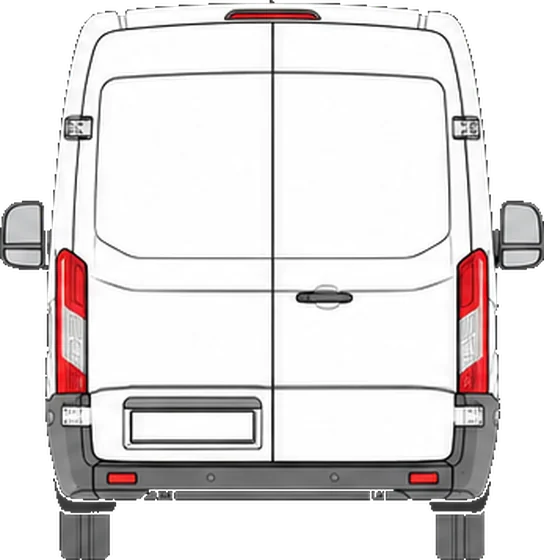
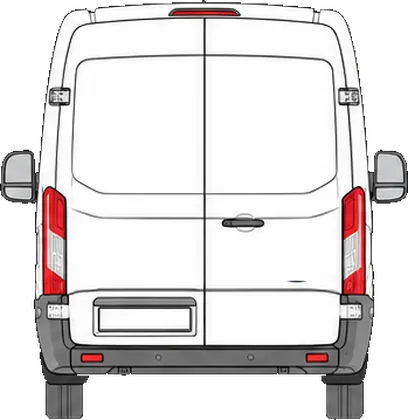
Add drawings for 52 vans and motorhomes, grouped by size (2.2.0)
Each van and generation is its own choice in Setup, with its own side,
rear and top drawing for the home screen, Setup sample and Level page.

Claude-Session: https://claude.ai/code/session_017KBRngzsM8Rvp8wbAvxhhM

diff --git a/custom_components/nomados/frontend/nomados.js b/custom_components/nomados/frontend/nomados.js
@@ -5,7 +5,7 @@
  * `mode: demo` shows example values (for showing off, or before the kit is fitted).
  * Entity ids can be overridden in configuration.yaml under panel_custom > config > entities.
  */
-const VCC_VERSION = "2.1.0";
+const VCC_VERSION = "2.2.0";
 
 // No built-in entity names: the setup wizard picks them for each van
 const VCC_DEFAULT_ENTITIES = {};
@@ -1456,23 +1456,64 @@ const SW_ICON_NAMES = { lights: "Light", awning: "Outside light", pump: "Pump", 
 const NOS_MAX_BUTTONS = 7;
 
 // Common vans: wheelbase and track (width between the wheels) in mm. Close enough for ramp heights.
-// Drawings for each van in the list (side, rear and top), served by the integration
-const NOS_VAN_ART = ["crafter_lwb", "crafter_mwb", "master_mwb", "sprinter_lwb", "sprinter_mwb", "transit_lwb", "transit_mwb", "transporter_swb"];
-function vanArt(model) { return NOS_VAN_ART.includes(model) ? `/nomados_static/vans/${model}` : null; }
+// Vans in the Setup list: id, name, short name, wheelbase mm, width between wheels mm, group.
+// Each one except "other" has side, rear and top drawings in frontend/vans. Sizes are typical figures; owners can change them.
 const NOS_VANS = [
-  ["ducato_l23", "Fiat Ducato / Peugeot Boxer / Citroën Relay · L2 or L3", "Ducato L3", 3450, 1810],
-  ["ducato_l4", "Fiat Ducato / Peugeot Boxer / Citroën Relay · L4", "Ducato L4", 4035, 1810],
-  ["transit_lwb", "Ford Transit · long wheelbase", "Transit LWB", 3750, 1740],
-  ["transit_mwb", "Ford Transit · medium wheelbase", "Transit MWB", 3300, 1740],
-  ["sprinter_lwb", "Mercedes Sprinter · long wheelbase", "Sprinter LWB", 4325, 1710],
-  ["sprinter_mwb", "Mercedes Sprinter · medium wheelbase", "Sprinter MWB", 3665, 1710],
-  ["master_mwb", "Renault Master / Vauxhall Movano · medium wheelbase", "Master MWB", 3682, 1750],
-  ["crafter_lwb", "VW Crafter / MAN TGE · long wheelbase", "Crafter LWB", 4490, 1720],
-  ["crafter_mwb", "VW Crafter / MAN TGE · medium wheelbase", "Crafter MWB", 3640, 1720],
-  ["transporter_lwb", "VW Transporter · long wheelbase", "Transporter LWB", 3400, 1630],
-  ["transporter_swb", "VW Transporter · short wheelbase", "Transporter SWB", 3000, 1630],
-  ["other", "Something else (type the sizes below)", "Campervan", 3500, 1700],
+  ["crafter_mwb", "VW Crafter / MAN TGE (2017 on) · medium wheelbase", "Crafter MWB", 3640, 1720, "Large vans"],
+  ["crafter_lwb", "VW Crafter / MAN TGE (2017 on) · long wheelbase", "Crafter LWB", 4490, 1720, "Large vans"],
+  ["crafter_mk1f", "VW Crafter (2011–2016)", "Crafter", 3665, 1710, "Large vans"],
+  ["crafter_mk1", "VW Crafter (2006–2011)", "Crafter", 3665, 1710, "Large vans"],
+  ["ducato_2024", "Fiat Ducato / Peugeot Boxer / Citroën Relay / Vauxhall Movano (2024 on)", "Ducato", 3450, 1810, "Large vans"],
+  ["ducato_2021", "Fiat Ducato / Peugeot Boxer / Citroën Relay / Vauxhall Movano (2021–2024)", "Ducato", 3450, 1810, "Large vans"],
+  ["ducato_l23", "Fiat Ducato / Peugeot Boxer / Citroën Relay (2014–2021) · L2 or L3", "Ducato L3", 3450, 1810, "Large vans"],
+  ["ducato_l4", "Fiat Ducato / Peugeot Boxer / Citroën Relay (2014–2021) · L4", "Ducato L4", 4035, 1810, "Large vans"],
+  ["ducato_x250", "Fiat Ducato / Peugeot Boxer / Citroën Relay (2006–2014)", "Ducato", 3450, 1810, "Large vans"],
+  ["transit_mwb", "Ford Transit (2019 on) · medium wheelbase", "Transit MWB", 3300, 1740, "Large vans"],
+  ["transit_lwb", "Ford Transit (2019 on) · long wheelbase", "Transit LWB", 3750, 1740, "Large vans"],
+  ["transit_mk8", "Ford Transit (2014–2019)", "Transit", 3300, 1740, "Large vans"],
+  ["transit_mk7", "Ford Transit (2006–2013)", "Transit", 3300, 1740, "Large vans"],
+  ["iveco_daily", "Iveco Daily (2014 on)", "Daily", 3520, 1730, "Large vans"],
+  ["sprinter_mwb", "Mercedes Sprinter (2018 on) · medium wheelbase", "Sprinter MWB", 3665, 1710, "Large vans"],
+  ["sprinter_lwb", "Mercedes Sprinter (2018 on) · long wheelbase", "Sprinter LWB", 4325, 1710, "Large vans"],
+  ["sprinter_w906", "Mercedes Sprinter (2006–2018)", "Sprinter", 3665, 1710, "Large vans"],
+  ["master_2024", "Renault Master (2024 on)", "Master", 3700, 1760, "Large vans"],
+  ["master_mwb", "Renault Master / Vauxhall Movano / Nissan NV400 (2010–2024)", "Master MWB", 3682, 1750, "Large vans"],
+  ["transporter_t7", "VW Transporter T7 (2025 on)", "Transporter T7", 3100, 1690, "Mid-size vans"],
+  ["transporter_swb", "VW Transporter T6.1 (2019–2024) · short wheelbase", "T6.1 SWB", 3000, 1630, "Mid-size vans"],
+  ["transporter_lwb", "VW Transporter T6.1 (2019–2024) · long wheelbase", "T6.1 LWB", 3400, 1630, "Mid-size vans"],
+  ["transporter_t6", "VW Transporter T6 (2015–2019)", "Transporter T6", 3000, 1630, "Mid-size vans"],
+  ["transporter_t51", "VW Transporter T5.1 (2009–2015)", "Transporter T5", 3000, 1630, "Mid-size vans"],
+  ["transporter_t5", "VW Transporter T5 (2003–2009)", "Transporter T5", 3000, 1630, "Mid-size vans"],
+  ["transporter_t4", "VW Transporter T4 (1990–2003)", "Transporter T4", 2920, 1580, "Mid-size vans"],
+  ["transporter_t3", "VW Transporter T3 (1979–1992)", "Transporter T3", 2460, 1570, "Mid-size vans"],
+  ["transporter_t2", "VW Transporter T2 (1967–1979)", "Transporter T2", 2400, 1390, "Mid-size vans"],
+  ["transporter_t1", "VW Transporter T1 (1950–1967)", "Transporter T1", 2400, 1375, "Mid-size vans"],
+  ["custom_mk2", "Ford Transit Custom (2023 on)", "Transit Custom", 3100, 1690, "Mid-size vans"],
+  ["tourneo_custom_mk2", "Ford Tourneo Custom (2023 on)", "Tourneo Custom", 3100, 1690, "Mid-size vans"],
+  ["custom_mk1f", "Ford Transit Custom (2018–2023)", "Transit Custom", 2933, 1700, "Mid-size vans"],
+  ["custom_mk1", "Ford Transit Custom (2012–2018)", "Transit Custom", 2933, 1700, "Mid-size vans"],
+  ["vito_w447", "Mercedes Vito (2014 on)", "Vito", 3200, 1660, "Mid-size vans"],
+  ["vclass_w447", "Mercedes V-Class (2014 on)", "V-Class", 3200, 1660, "Mid-size vans"],
+  ["vito_w639", "Mercedes Vito / Viano (2003–2014)", "Vito", 3200, 1630, "Mid-size vans"],
+  ["trafic_x82", "Renault Trafic / Vauxhall Vivaro / Nissan Primastar / Fiat Talento (2014 on)", "Trafic", 3098, 1620, "Mid-size vans"],
+  ["trafic_x83", "Renault Trafic / Vauxhall Vivaro / Nissan Primastar (2001–2014)", "Trafic", 3098, 1610, "Mid-size vans"],
+  ["dispatch_k0", "Citroën Dispatch / Peugeot Expert / Toyota Proace / Vauxhall Vivaro (2016 on)", "Dispatch", 3275, 1630, "Mid-size vans"],
+  ["staria", "Hyundai Staria (2021 on)", "Staria", 3273, 1710, "Mid-size vans"],
+  ["berlingo_k9", "Citroën Berlingo / Peugeot Partner / Vauxhall Combo / Toyota Proace City (2018 on)", "Berlingo", 2785, 1550, "Small vans"],
+  ["caddy_mk5", "VW Caddy (2020 on)", "Caddy", 2755, 1580, "Small vans"],
+  ["caddy_mk3", "VW Caddy (2004–2020)", "Caddy", 2682, 1540, "Small vans"],
+  ["connect_mk3", "Ford Transit Connect (2024 on)", "Connect", 2755, 1580, "Small vans"],
+  ["connect_mk2", "Ford Transit Connect (2013–2023)", "Connect", 2662, 1570, "Small vans"],
+  ["connect_mk1", "Ford Transit Connect (2002–2013)", "Connect", 2664, 1500, "Small vans"],
+  ["kangoo_mk3", "Renault Kangoo (2021 on)", "Kangoo", 2716, 1580, "Small vans"],
+  ["kangoo_mk2", "Renault Kangoo (2008–2021)", "Kangoo", 2697, 1520, "Small vans"],
+  ["mh_hightop", "High-top campervan (van conversion)", "Campervan", 3450, 1810, "Motorhomes"],
+  ["mh_lowprofile", "Coachbuilt motorhome · low profile", "Motorhome", 3800, 1980, "Motorhomes"],
+  ["mh_overcab", "Coachbuilt motorhome · overcab (Luton)", "Motorhome", 3800, 1980, "Motorhomes"],
+  ["mh_aclass", "A-class motorhome", "Motorhome", 4000, 1980, "Motorhomes"],
+  ["other", "Something else (type the sizes below)", "Campervan", 3500, 1700, "Other"]
 ];
+function vanArt(model) { return model && model !== "other" && NOS_VANS.some((v) => v[0] === model) ? `/nomados_static/vans/${model}` : null; }
 
 // Every sensor the dashboard can use: what it's called, where to look, and how to spot it
 const T = ["°C", "°F"];
@@ -1900,13 +1941,13 @@ const NOS_METHODS = {
   },
   _wz_van() {
     const d = this._wz.d, v = d.van;
-    const opts = NOS_VANS.map((p) => `<option value="${p[0]}"${p[0] === v.model ? " selected" : ""}>${$esc(p[1])}</option>`).join("");
+    const opts = [...new Set(NOS_VANS.map((p) => p[5]))].map((g) => `<optgroup label="${$esc(g)}">${NOS_VANS.filter((p) => p[5] === g).map((p) => `<option value="${p[0]}"${p[0] === v.model ? " selected" : ""}>${$esc(p[1])}</option>`).join("")}</optgroup>`).join("");
     const photo = d.photo;
     return `<p class="wzk">Step 1</p><h2 class="wzh">Your van</h2>
      <div class="wz2"><div style="display:grid;gap:16px">
       <label class="wzfld"><span>Name or number plate</span><input class="wzi" data-f="van.plate" maxlength="14" value="${$esc(v.plate)}" placeholder="For example AB12 CDE, or the van's name"><small>Shown on the plate at the top of the screen. Up to 14 letters.</small></label>
       <div class="wzplate" id="wzPlate">${$esc((v.plate || "VAN").toUpperCase())}</div>
-      <label class="wzfld"><span>Van</span><select class="wzs" data-f="van.model">${opts}</select><small>Used to work out ramp heights on the Level page.</small></label>
+      <label class="wzfld"><span>Van</span><select class="wzs" data-f="van.model">${opts}</select><small>Picks the drawing of your van and works out ramp heights on the Level page. The sizes are typical for that van: check them against your own.</small></label>
       <div class="wz2"><label class="wzfld"><span>Wheelbase (mm)</span><input class="wzi" type="number" inputmode="numeric" data-f="van.wheelbase_mm" value="${$esc(v.wheelbase_mm)}"></label>
        <label class="wzfld"><span>Width between wheels (mm)</span><input class="wzi" type="number" inputmode="numeric" data-f="van.track_mm" value="${$esc(v.track_mm)}"></label></div>
      </div><div style="display:grid;gap:10px"><span class="wzk">Picture on the home screen</span>
@@ -2166,6 +2207,6 @@ Object.assign(VanCommandCentre.prototype, {
   _trips() { return []; },
   _renderTrips() { return undefined; },
 });
-window.__nomados = Object.assign(window.__nomados || {}, { VanCommandCentre, $esc, BLADE_COL, COMPASS8, DIRS, EXTRA_CSS, ICON, NOS_FEATURES, NOS_FUSE_GUESS, NOS_KEYS, NOS_MAX_BUTTONS, NOS_METHODS, NOS_OWN, NOS_STEPS, NOS_VANS, NOS_VAN_ART, P, REAR_VAN, SIDE_VAN, SWITCHES, SW_ICONS, SW_ICON_NAMES, T, TICKS, TOP_VAN, VCC_CSS, VCC_DAY3, VCC_DAYS, VCC_DEFAULT_ENTITIES, VCC_DEFAULT_PAGES, VCC_DISCOVER, VCC_FALLBACK, VCC_SOLAR_WP, VCC_TOPO, VCC_TRACK_MM, VCC_VAN, VCC_VERSION, VCC_WHEELBASE_MM, WZ_CSS, blocksToSlots, clamp, compass, demoForecast, demoFuses, demoSchedule, demoSeries, demoStates, demoWeather, fmt, fuseSvg, hm, markup, nosClone, nosSlug, num, osGridRef, pad2, row, scale, slotOf, slotsToBlocks, timeOf, vanArt, wmo });
+window.__nomados = Object.assign(window.__nomados || {}, { VanCommandCentre, $esc, BLADE_COL, COMPASS8, DIRS, EXTRA_CSS, ICON, NOS_FEATURES, NOS_FUSE_GUESS, NOS_KEYS, NOS_MAX_BUTTONS, NOS_METHODS, NOS_OWN, NOS_STEPS, NOS_VANS, P, REAR_VAN, SIDE_VAN, SWITCHES, SW_ICONS, SW_ICON_NAMES, T, TICKS, TOP_VAN, VCC_CSS, VCC_DAY3, VCC_DAYS, VCC_DEFAULT_ENTITIES, VCC_DEFAULT_PAGES, VCC_DISCOVER, VCC_FALLBACK, VCC_SOLAR_WP, VCC_TOPO, VCC_TRACK_MM, VCC_VAN, VCC_VERSION, VCC_WHEELBASE_MM, WZ_CSS, blocksToSlots, clamp, compass, demoForecast, demoFuses, demoSchedule, demoSeries, demoStates, demoWeather, fmt, fuseSvg, hm, markup, nosClone, nosSlug, num, osGridRef, pad2, row, scale, slotOf, slotsToBlocks, timeOf, vanArt, wmo });
 if (!customElements.get("nomados-panel")) customElements.define("nomados-panel", class extends VanCommandCentre {});
 console.info(`%c NOMADOS %c ${VCC_VERSION} `, "background:#7D8457;color:#111;font-weight:700", "background:#222;color:#ECE6DC");

diff --git a/custom_components/nomados/const.py b/custom_components/nomados/const.py
@@ -1,7 +1,7 @@
 """Constants for NomadOS."""
 
 DOMAIN = "nomados"
-VERSION = "2.1.0"
+VERSION = "2.2.0"
 
 PANEL_URL = "nomados"
 PANEL_TITLE = "NomadOS"
